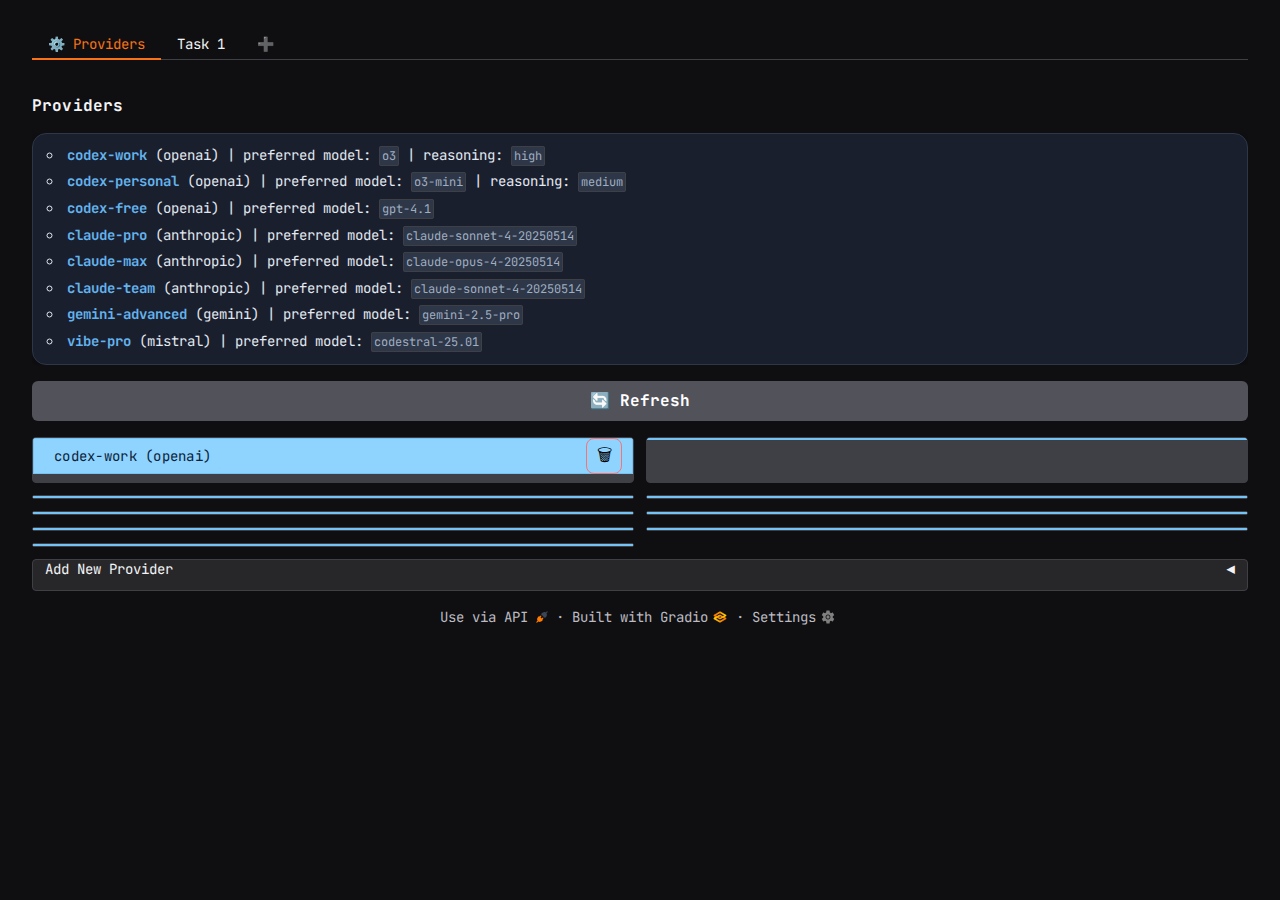
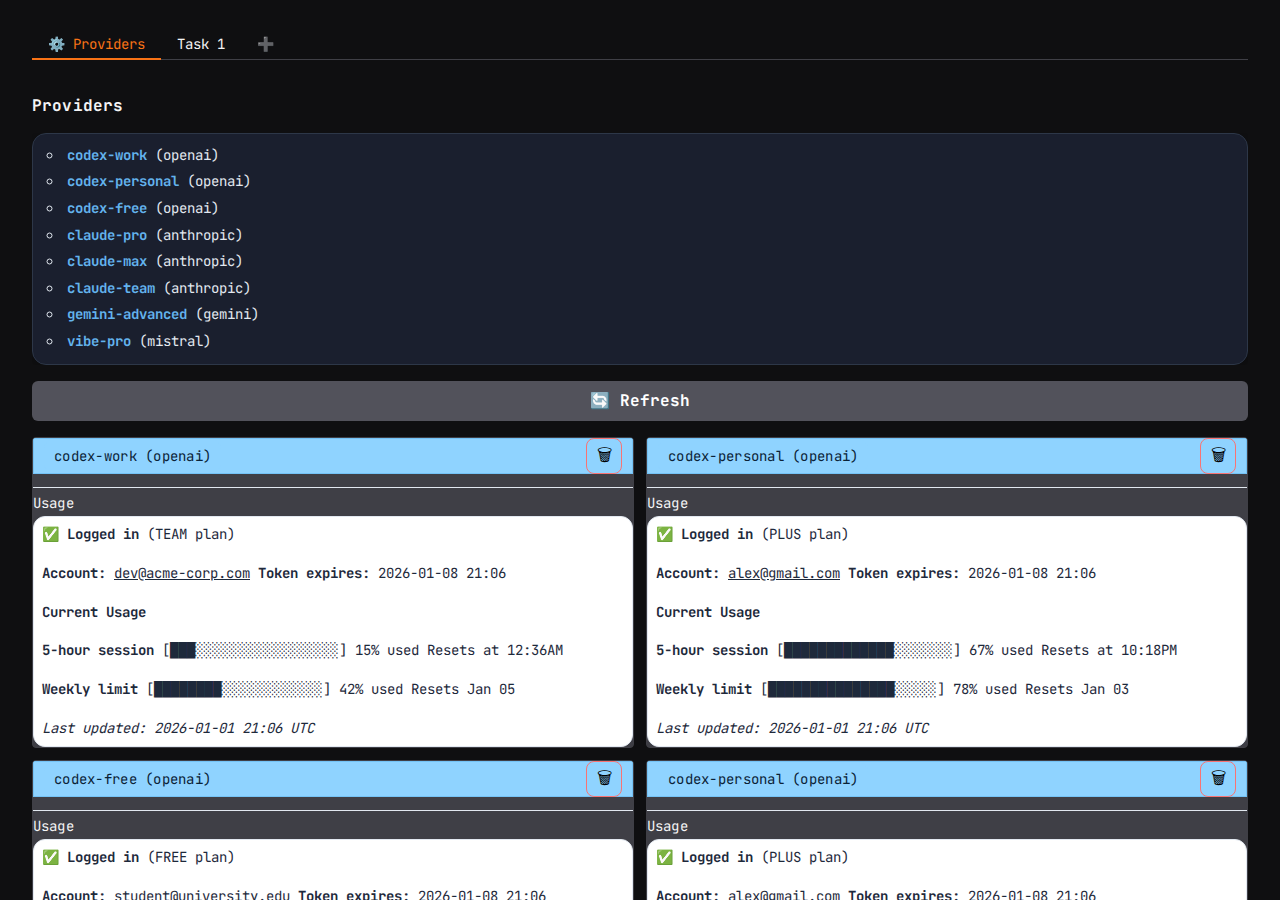
Fix provider details regression

diff --git a/tests/test_model_catalog.py b/tests/test_model_catalog.py
@@ -1,30 +1,44 @@
-"""Tests for model discovery helper."""
-
+import base64
+import json
 from pathlib import Path
 
-import pytest
-
-from chad import model_catalog
 from chad.model_catalog import ModelCatalog
 
 
-@pytest.mark.skipif(model_catalog.tomllib is None, reason="TOML parser not available")
-def test_codex_models_from_config_and_sessions(tmp_path: Path):
-    codex_dir = tmp_path / ".codex"
-    (codex_dir / "sessions" / "2025" / "01" / "01").mkdir(parents=True, exist_ok=True)
+def _write_auth(auth_file: Path, plan_type: str) -> None:
+    payload = {"https://api.openai.com/auth": {"chatgpt_plan_type": plan_type}}
+    encoded_payload = base64.urlsafe_b64encode(json.dumps(payload).encode()).decode().rstrip("=")
+    token = f"hdr.{encoded_payload}.sig"
 
-    config = codex_dir / "config.toml"
-    config.write_text('model = "gpt-5.2-codex"\n' "[notice.model_migrations]\n" '"gpt-old" = "gpt-new"\n')
+    auth_file.parent.mkdir(parents=True, exist_ok=True)
+    auth_file.write_text(json.dumps({"tokens": {"access_token": token}}))
 
-    session = codex_dir / "sessions" / "2025" / "01" / "01" / "session.jsonl"
-    session.write_text('{"model": "gpt-5.1-codex-max"}\n' '{"payload": {"model": "gpt-4.1"}}\n')
 
-    catalog = ModelCatalog(home_dir=tmp_path, cache_ttl=0)
-    models = catalog.get_models("openai")
+def _write_codex_session(home: Path, model: str) -> None:
+    session = home / ".codex" / "sessions" / "2025" / "01" / "01" / "session.jsonl"
+    session.parent.mkdir(parents=True, exist_ok=True)
+    session.write_text(json.dumps({"model": model}))
 
-    assert "gpt-5.2-codex" in models
+
+def test_openai_models_hide_codex_for_chatgpt(monkeypatch, tmp_path):
+    monkeypatch.setenv("CHAD_TEMP_HOME", str(tmp_path))
+    home = tmp_path / ".chad" / "codex-homes" / "codex-home"
+    _write_auth(home / ".codex" / "auth.json", "plus")
+    _write_codex_session(home, "gpt-5.1-codex-max")
+
+    catalog = ModelCatalog(home_dir=home)
+    models = catalog.get_models("openai", "codex-home")
+
+    assert all("codex" not in model.lower() for model in models)
+
+
+def test_openai_models_keep_codex_for_team(monkeypatch, tmp_path):
+    monkeypatch.setenv("CHAD_TEMP_HOME", str(tmp_path))
+    home = tmp_path / ".chad" / "codex-homes" / "codex-work"
+    _write_auth(home / ".codex" / "auth.json", "team")
+    _write_codex_session(home, "gpt-5.1-codex-max")
+
+    catalog = ModelCatalog(home_dir=home)
+    models = catalog.get_models("openai", "codex-work")
+
     assert "gpt-5.1-codex-max" in models
-    assert "gpt-4.1" in models
-    assert "gpt-old" in models
-    assert "gpt-new" in models
-    assert "default" in models

diff --git a/src/chad/model_catalog.py b/src/chad/model_catalog.py
@@ -2,7 +2,9 @@
 
 from __future__ import annotations
 
+import base64
 import json
+import os
 import time
 from dataclasses import dataclass, field
 from pathlib import Path
@@ -69,6 +71,11 @@ class ModelCatalog:
         if provider == "openai":
             models |= self._codex_config_models()
             models |= self._codex_session_models()
+
+        if provider == "openai":
+            plan_type = self._codex_plan_type(account_name)
+            if plan_type and plan_type.lower() != "team":
+                models = {m for m in models if "codex" not in m.lower()}
 
         models.add("default")
         resolved = sorted(models, key=lambda m: (m == "default", m))
@@ -168,3 +175,33 @@ class ModelCatalog:
                 return str(payload_model)
 
         return None
+
+    def _codex_home(self, account_name: str) -> Path:
+        temp_home = os.environ.get("CHAD_TEMP_HOME")
+        base = Path(temp_home) if temp_home else self.home_dir
+        return base / ".chad" / "codex-homes" / account_name
+
+    def _codex_plan_type(self, account_name: str | None) -> str | None:
+        if not account_name:
+            return None
+
+        auth_file = self._codex_home(account_name) / ".codex" / "auth.json"
+        if not auth_file.exists():
+            return None
+
+        try:
+            data = json.loads(auth_file.read_text())
+            token = data.get("tokens", {}).get("access_token")
+            if not token:
+                return None
+
+            payload = token.split(".")[1]
+            if payload:
+                payload += "=" * (-len(payload) % 4)
+            decoded = base64.urlsafe_b64decode(payload or "")
+            jwt_data = json.loads(decoded)
+            auth_info = jwt_data.get("https://api.openai.com/auth", {})
+            plan_type = auth_info.get("chatgpt_plan_type")
+            return str(plan_type).lower() if plan_type else None
+        except Exception:
+            return None

diff --git a/src/chad/web_ui.py b/src/chad/web_ui.py
@@ -421,12 +421,6 @@ body, .gradio-container, .gradio-container * {
 }
 
 /* Hide empty provider cards - groups are hidden via CSS, columns via JavaScript */
-.gr-group:has(.provider-card__header-row)
-  :not(:has(.provider-card__header-text))
-  :not(:has(.provider-card__header-text-secondary)) {
-  display: none !important;
-}
-
 /* Two-column layout for provider cards */
 .provider-cards-row {
   display: flex !important;
@@ -4324,7 +4318,7 @@ class ChadWebUI:
                     usage_text = ""
 
                 card_group_classes = ["provider-card"] if visible else ["provider-card", "provider-card-empty"]
-                with gr.Column(visible=True, scale=1) as card_column:
+                with gr.Column(visible=visible, scale=1) as card_column:
                     card_elem_id = f"provider-card-{idx}"
                     with gr.Group(elem_id=card_elem_id, elem_classes=card_group_classes) as card_group:
                         with gr.Row(elem_classes=["provider-card__header-row"]):

diff --git a/tests/test_ui_integration.py b/tests/test_ui_integration.py
@@ -407,6 +407,15 @@ class TestProvidersTab:
             font_weight = 700 if font_weight_raw.lower() == "bold" else 400
         assert font_weight >= 600, f"Expected font weight >= 600, got {font_weight_raw}"
 
+    def test_provider_usage_visible(self, page: Page):
+        """Provider usage boxes should render with content."""
+        page.get_by_role("tab", name="⚙ Providers").click()
+        usage = page.locator(".provider-usage").first
+        expect(usage).to_be_visible(timeout=5000)
+
+        text = usage.text_content() or ""
+        assert text.strip(), "Usage text should not be empty"
+
 
 class TestSubtaskTabs:
     """Test subtask tab filtering (integration with mock provider)."""

diff --git a/README.md b/README.md
@@ -25,7 +25,7 @@ chad
 
 ### How is this better than $Grug?
 
--> Gradio UI to manage multiple coding agents, select preferred models, monitor usage quotas, and run tasks:
+-> Gradio UI to manage multiple coding agents, monitor usage quotas, run multiple tasks in parallel and merge results:
 <details open>
 <summary><b>Screenshots</b></summary>
 
@@ -40,9 +40,6 @@ chad
 
 #### Run multiple tasks in parallel
 <img src="docs/screenshot-task-tabs.png" width="800" alt="Multiple task tabs">
-
-#### View changes with side-by-side diff before merging
-<img src="docs/screenshot-diff-viewer.png" width="800" alt="Side-by-side diff viewer">
 
 #### Resolve merge conflicts with side-by-side diff view
 <img src="docs/screenshot-merge-conflicts.png" width="800" alt="Merge conflict resolution">
